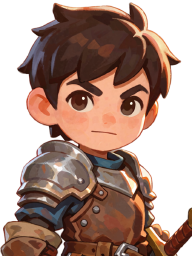
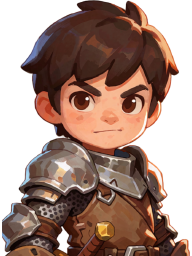
world2: 가렛 그림 KREA2 로 교체 · 그림 모델을 KREA2 하나로

diff --git a/game-card-world2/tools/icon_common.py b/game-card-world2/tools/icon_common.py
@@ -74,16 +74,16 @@ BG_COLORS = {"black": "#000000", "white": "#ffffff white"}
 def build_prompt(text, name, seed, size, colors):
     sub = f"game-card-world2/{name}"
     return {
-        "unet": {"class_type": "UNETLoader", "inputs": {"unet_name": "flux-2-klein-9b-int8-ConvRot.safetensors", "weight_dtype": "default"}},
-        "lora": {"class_type": "LoraLoaderModelOnly", "inputs": {"model": ["unet", 0], "lora_name": "pixel-surgeon-klein-9b.safetensors", "strength_model": 1}},
-        "clip": {"class_type": "CLIPLoader", "inputs": {"clip_name": "qwen_3_8b_fp8mixed.safetensors", "type": "flux2", "device": "default"}},
-        "vae": {"class_type": "VAELoader", "inputs": {"vae_name": "flux2-vae.safetensors"}},
+        # 2026-10-15: **KREA 2 Turbo 로 바꿈** (전: Flux 2 Klein 9B + pixel-surgeon LoRA) — 캐릭터 시트 · 장면과 같은 모델 한 벌
+        "unet": {"class_type": "UNETLoader", "inputs": {"unet_name": "krea2_turbo_fp8_scaled.safetensors", "weight_dtype": "default"}},
+        "clip": {"class_type": "CLIPLoader", "inputs": {"clip_name": "qwen3vl_4b_fp8_scaled.safetensors", "type": "krea2", "device": "default"}},
+        "vae": {"class_type": "VAELoader", "inputs": {"vae_name": "qwen_image_vae.safetensors"}},
         "pos": {"class_type": "CLIPTextEncode", "inputs": {"clip": ["clip", 0], "text": text}},
-        "neg": {"class_type": "ConditioningZeroOut", "inputs": {"conditioning": ["pos", 0]}},
-        "latent": {"class_type": "EmptyFlux2LatentImage", "inputs": {"width": 1024, "height": 1024, "batch_size": 1}},
+        "neg": {"class_type": "CLIPTextEncode", "inputs": {"clip": ["clip", 0], "text": ""}},   # cfg 1 이라 빈 칸
+        "latent": {"class_type": "EmptyLatentImage", "inputs": {"width": 1024, "height": 1024, "batch_size": 1}},
         "sampler": {"class_type": "KSampler", "inputs": {
-            "model": ["lora", 0], "positive": ["pos", 0], "negative": ["neg", 0], "latent_image": ["latent", 0],
-            "seed": seed, "steps": 4, "cfg": 1, "sampler_name": "euler", "scheduler": "simple", "denoise": 1}},
+            "model": ["unet", 0], "positive": ["pos", 0], "negative": ["neg", 0], "latent_image": ["latent", 0],
+            "seed": seed, "steps": 8, "cfg": 1, "sampler_name": "er_sde", "scheduler": "simple", "denoise": 1}},
         "decode": {"class_type": "VAEDecode", "inputs": {"samples": ["sampler", 0], "vae": ["vae", 0]}},
         # 서브그래프: 배경 제거 → 알파 → 크롭 → 축소 → 팔레트 축소
         "bg_model": {"class_type": "LoadBackgroundRemovalModel", "inputs": {"bg_removal_name": "birefnet.safetensors"}},

diff --git a/game-card-world2/docs/아이콘_목록.md b/game-card-world2/docs/아이콘_목록.md
@@ -2160,10 +2160,10 @@ Full-body character splash art of a giant armored sea crustacean lord with a mas
 <!-- icon:portrait_knight -->
 ### portrait_knight — 기사 — full
 - 파일: `images/portrait/portrait_knight.png`
-- 생성: 2026-10-07 · seed `87630483` · 옵션 `--kind person --style deform --card-from face --seg-text face --denoise-upper 0.12 --denoise-face 0.05 --upper-pad 85 --upper-down 170 --face-pad 170 --face-down 10`
+- 생성: 2026-10-15 · seed `818374060` · 옵션 `--kind person --style deform --body beast --card-from face --seg-text face --denoise-upper 0.12 --denoise-face 0.05 --upper-pad 85 --upper-down 170 --face-pad 60 --face-down 10`
 - 메모: 2026-10-07 좌우를 뒤집어 저장함 (파일 자체가 반전본)
 ```
-Full-body character splash art of a young knight in worn leather and plate armor, short sword at his side, determined face, standing in a relaxed ready stance, facing the viewer, body turned three-quarters, whole body visible from head to toe, stylized deformed proportions: a large expressive head about one fifth of the body height, compact sturdy body, small hands and feet, centered composition. stylized fantasy video-game character art, hand-painted illustration with visible painterly brushwork, soft cel-shaded volumes with clean readable shapes, warm vivid colors, gentle rim lighting, appealing character-design rendering, sharp focus, plain flat neutral grey studio backdrop, no scenery, no props, no other characters. no photorealism, not a photo, no hyperreal skin pores, no gritty realism, no text, no watermark, no extra characters.
+Full-body character splash art of a young knight in worn leather and plate armor, short sword at his side, determined face, standing in a relaxed ready stance, facing the viewer, body turned three-quarters, whole body visible from head to toe, stylized deformed proportions: a large expressive head about one fifth of the body height, compact sturdy body, small hands and feet, centered composition. stylized fantasy video-game character art, hand-painted illustration with visible painterly brushwork, soft cel-shaded volumes with clean readable shapes, warm vivid colors, gentle rim lighting, appealing character-design rendering, sharp focus, plain flat neutral grey studio backdrop, no scenery, no props, no other characters. no photorealism, not a photo, no hyperreal skin pores, no hyperreal fur, no wildlife photography, no gritty realism, no text, no watermark, no extra characters.
 ```
 <!-- /icon -->
 
@@ -2188,9 +2188,9 @@ Full-body character splash art of a large brown bear on all fours, heavy shoulde
 <!-- icon:card_knight -->
 ### card_knight — 기사 — face
 - 파일: `images/icon/card_knight.png`
-- 생성: 2026-10-07 · seed `87630483` · 옵션 `--kind person --style deform --card-from face --seg-text face --denoise-upper 0.12 --denoise-face 0.05 --upper-pad 85 --upper-down 170 --face-pad 170 --face-down 10`
+- 생성: 2026-10-15 · seed `818374060` · 옵션 `--kind person --style deform --body beast --card-from face --seg-text face --denoise-upper 0.12 --denoise-face 0.05 --upper-pad 85 --upper-down 170 --face-pad 60 --face-down 10`
 ```
-Close-up face portrait of a young knight in worn leather and plate armor, short sword at his side, determined face, facing the viewer, a big round-cheeked face filling the frame, large clear eyes, bold simple features, soft smooth skin shading. stylized fantasy video-game character art, hand-painted illustration with visible painterly brushwork, soft cel-shaded volumes with clean readable shapes, warm vivid colors, gentle rim lighting, appealing character-design rendering, sharp focus, plain flat neutral grey studio backdrop, no scenery, no props, no other characters. no photorealism, not a photo, no hyperreal skin pores, no gritty realism, no text, no watermark, no extra characters.
+Close-up face portrait of a young knight in worn leather and plate armor, short sword at his side, determined face, facing the viewer, a big round-cheeked face filling the frame, large clear eyes, bold simple features, soft smooth skin shading. stylized fantasy video-game character art, hand-painted illustration with visible painterly brushwork, soft cel-shaded volumes with clean readable shapes, warm vivid colors, gentle rim lighting, appealing character-design rendering, sharp focus, plain flat neutral grey studio backdrop, no scenery, no props, no other characters. no photorealism, not a photo, no hyperreal skin pores, no hyperreal fur, no wildlife photography, no gritty realism, no text, no watermark, no extra characters.
 ```
 <!-- /icon -->
 
@@ -2629,9 +2629,9 @@ Upper-body character portrait of a lean grey wolf, head lowered, teeth bared, br
 <!-- icon:bust_knight -->
 ### bust_knight — 기사 — upper
 - 파일: `images/portrait/bust_knight.png`
-- 생성: 2026-10-07 · seed `87630483` · 옵션 `--kind person --style deform --card-from face --seg-text face --denoise-upper 0.12 --denoise-face 0.05 --upper-pad 85 --upper-down 170 --face-pad 170 --face-down 10`
+- 생성: 2026-10-15 · seed `818374060` · 옵션 `--kind person --style deform --body beast --card-from face --seg-text face --denoise-upper 0.12 --denoise-face 0.05 --upper-pad 85 --upper-down 170 --face-pad 60 --face-down 10`
 ```
-Upper-body character portrait of a young knight in worn leather and plate armor, short sword at his side, determined face, facing the viewer, shoulders squared, torso turned three-quarters, a large expressive head, broad clear facial features, simplified stylized anatomy. stylized fantasy video-game character art, hand-painted illustration with visible painterly brushwork, soft cel-shaded volumes with clean readable shapes, warm vivid colors, gentle rim lighting, appealing character-design rendering, sharp focus, plain flat neutral grey studio backdrop, no scenery, no props, no other characters. no photorealism, not a photo, no hyperreal skin pores, no gritty realism, no text, no watermark, no extra characters.
+Upper-body character portrait of a young knight in worn leather and plate armor, short sword at his side, determined face, facing the viewer, shoulders squared, torso turned three-quarters, a large expressive head, broad clear facial features, simplified stylized anatomy. stylized fantasy video-game character art, hand-painted illustration with visible painterly brushwork, soft cel-shaded volumes with clean readable shapes, warm vivid colors, gentle rim lighting, appealing character-design rendering, sharp focus, plain flat neutral grey studio backdrop, no scenery, no props, no other characters. no photorealism, not a photo, no hyperreal skin pores, no hyperreal fur, no wildlife photography, no gritty realism, no text, no watermark, no extra characters.
 ```
 <!-- /icon -->
 

diff --git a/game-card-world2/docs/기능.md b/game-card-world2/docs/기능.md
@@ -3934,6 +3934,9 @@
   - 자리: 여관 줄의 여관 주인과 **같은 자리 · 같은 꼴** (카드 왼쪽, 탭하면 정보 칸)
   - 정보 칸: `오르반 / 만물상 · 모든 조합을 안다` + 노란 한 줄 + 설명 + 한마디
   - 명단(`roster_characters.py`)에도 넣어 뒀다 — 다음에 한꺼번에 다시 뽑을 때 같이 나온다
+- [x] 가렛 그림 세 장(얼굴 · 상반신 · 전신)을 KREA2 로 새로 뽑아 갈아 끼움 (`--style deform` · seed `818374060`, 묘사는 그대로)
+- [x] **그림 모델을 KREA 2 Turbo 하나로** (2026-10-15) — `icon_common.build_prompt`(아이템 · UI · 배경 타일) · `portrait_workflow.json` · `card_frame_workflow.json` 을 Flux 2 Klein + pixel-surgeon LoRA 에서 바꿈
+  - 확인: 아이템 시험(손도끼 · 열매)이 64px · 32색으로 제대로 나옴, 포트레이트 · 프레임 워크플로 한 번씩 돌려 통과. **이미 뽑힌 그림은 그대로** — 새로 뽑을 때부터 KREA2
 - [x] v9.85.0: 시나리오 카드 그림을 **KREA2 로 확정** — 다섯 장 갈아 끼움 (seed 4242)
   - 화풍은 캐릭터 · 크리처와 같은 집 결(deform) 문구. 사람은 데포르메 비율. **원본 색 그대로** (64색 줄이기 없음), 360×480
   - 장면마다 앵글을 따로: 신전 안 올려다봄 · 탑 밑동에서 올려다봄(일꾼 · 위의 귀족) · 문간 하인 어깨 너머 연회 · 성 밖 먼 샷 벼락 · 땅바닥 근접 잔해

diff --git a/CLAUDE.md b/CLAUDE.md
@@ -24,6 +24,8 @@
 
 ## 이미지 생성 (game-card-world2)
 
+**모델은 전부 KREA 2 Turbo** (2026-10-15 확정) — 아이템 · 캐릭터 · 장면 · 포트레이트 · 프레임 · 배경 타일 모두. UNet `krea2_turbo_fp8_scaled` · CLIP `qwen3vl_4b_fp8_scaled`(type krea2) · VAE `qwen_image_vae` · 8스텝 · cfg 1 · er_sde. 공통은 `icon_common.build_prompt`, 워크플로 JSON(`portrait_workflow.json` · `card_frame_workflow.json`)도 같은 한 벌. Flux 2 Klein · pixel-surgeon LoRA 는 더 쓰지 않는다.
+
 ComfyUI(`http://127.0.0.1:8188`) 아이콘은 **그릴 대상에 따라 스크립트를 골라** 쓴다. 섞어 쓰면 사물에 사람이 끼거나 캐릭터 비율이 틀어진다.
 
 | 그릴 것 | 스크립트 | 비고 |
